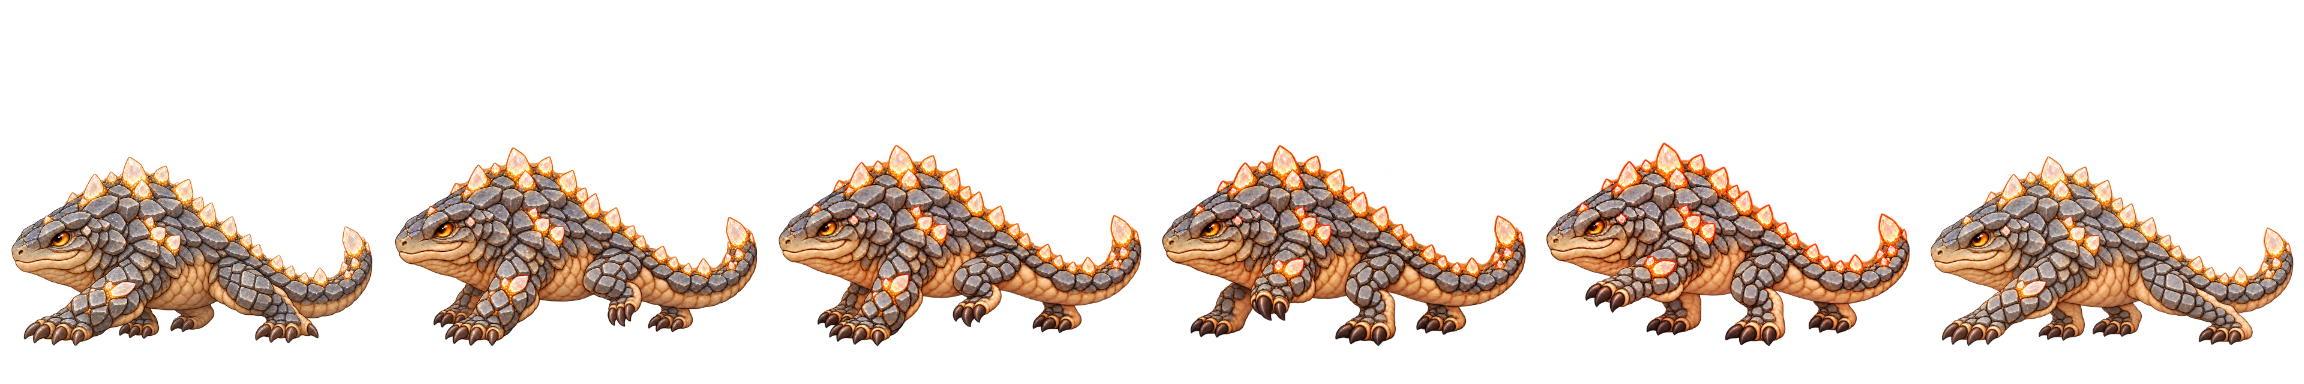
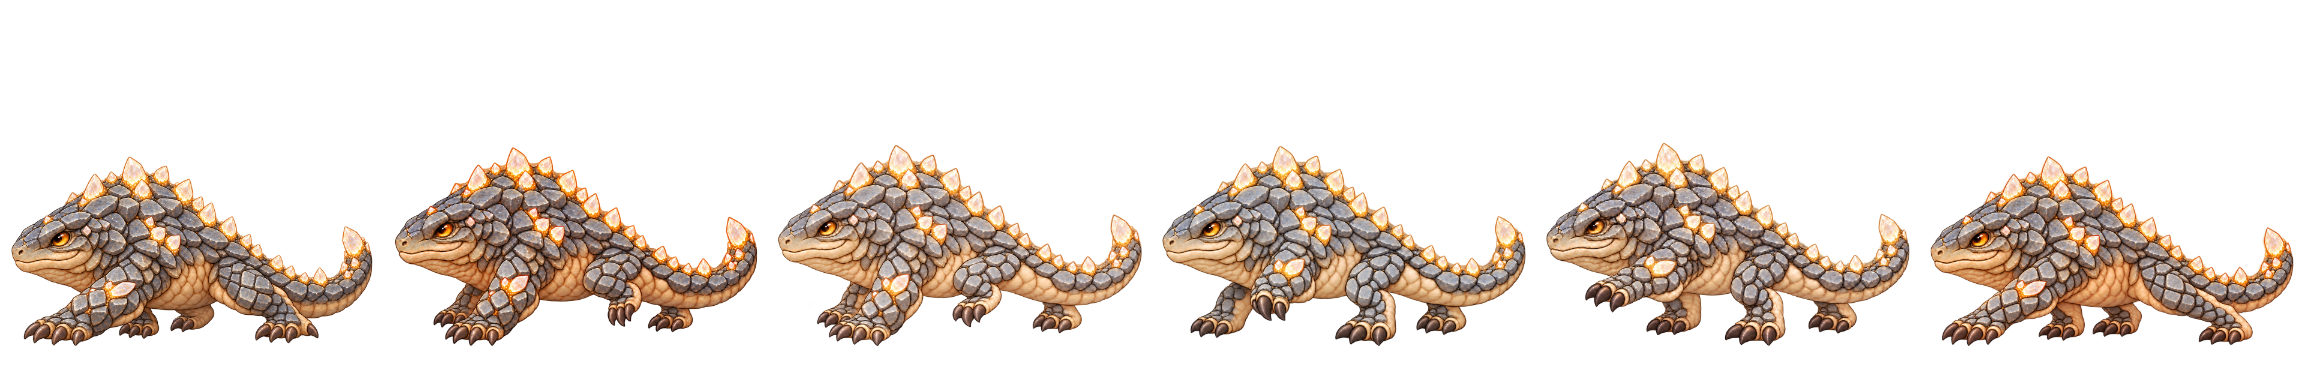
art: select color-corrected Craglet walk frames and rebuild draft

Changed region(s): [[0.3125, 0.375, 0.8438, 0.9062]]

diff --git a/art-source/monsters/mob_0005/walk-review.html b/art-source/monsters/mob_0005/walk-review.html
@@ -15,8 +15,8 @@ button,input{margin:12px;padding:8px}p{max-width:900px}
 <canvas id="contact" width="1200" height="640"></canvas>
 <script type="module">
 const image=new Image();image.src='./walk-left.png';await image.decode();
-const walkImages=await Promise.all([1,2,3,4,5,6].map(async n=>{const img=new Image();img.src=`./walk-0${n}.png`;await img.decode();return img;}));
-const walkBoxes=[[34,338,1204,632],[33,337,1208,663],[34,334,1210,671],[33,333,1213,670],[33,330,1212,679],[33,336,1211,633]];
+const walkImages=await Promise.all([1,2,3,4,5,6].map(async n=>{const img=new Image();img.src=`./walk-0${n}${n>=3&&n<=5?'-color':''}.png`;await img.decode();return img;}));
+const walkBoxes=[[34,338,1204,632],[33,337,1208,663],[33,336,1213,670],[34,336,1211,667],[34,332,1211,678],[33,336,1211,633]];
 const actions=new Image();actions.src='./actions-left.png';await actions.decode();
 const deathImages=await Promise.all(['left','death-buckle','death-collapse','death-final'].map(async name=>{const img=new Image();img.src=`./${name}.png`;await img.decode();return img;}));
 const deathBoxes=[[34,339,1201,642],[40,347,1200,631],[36,408,1206,543],[17,409,1226,527]];
